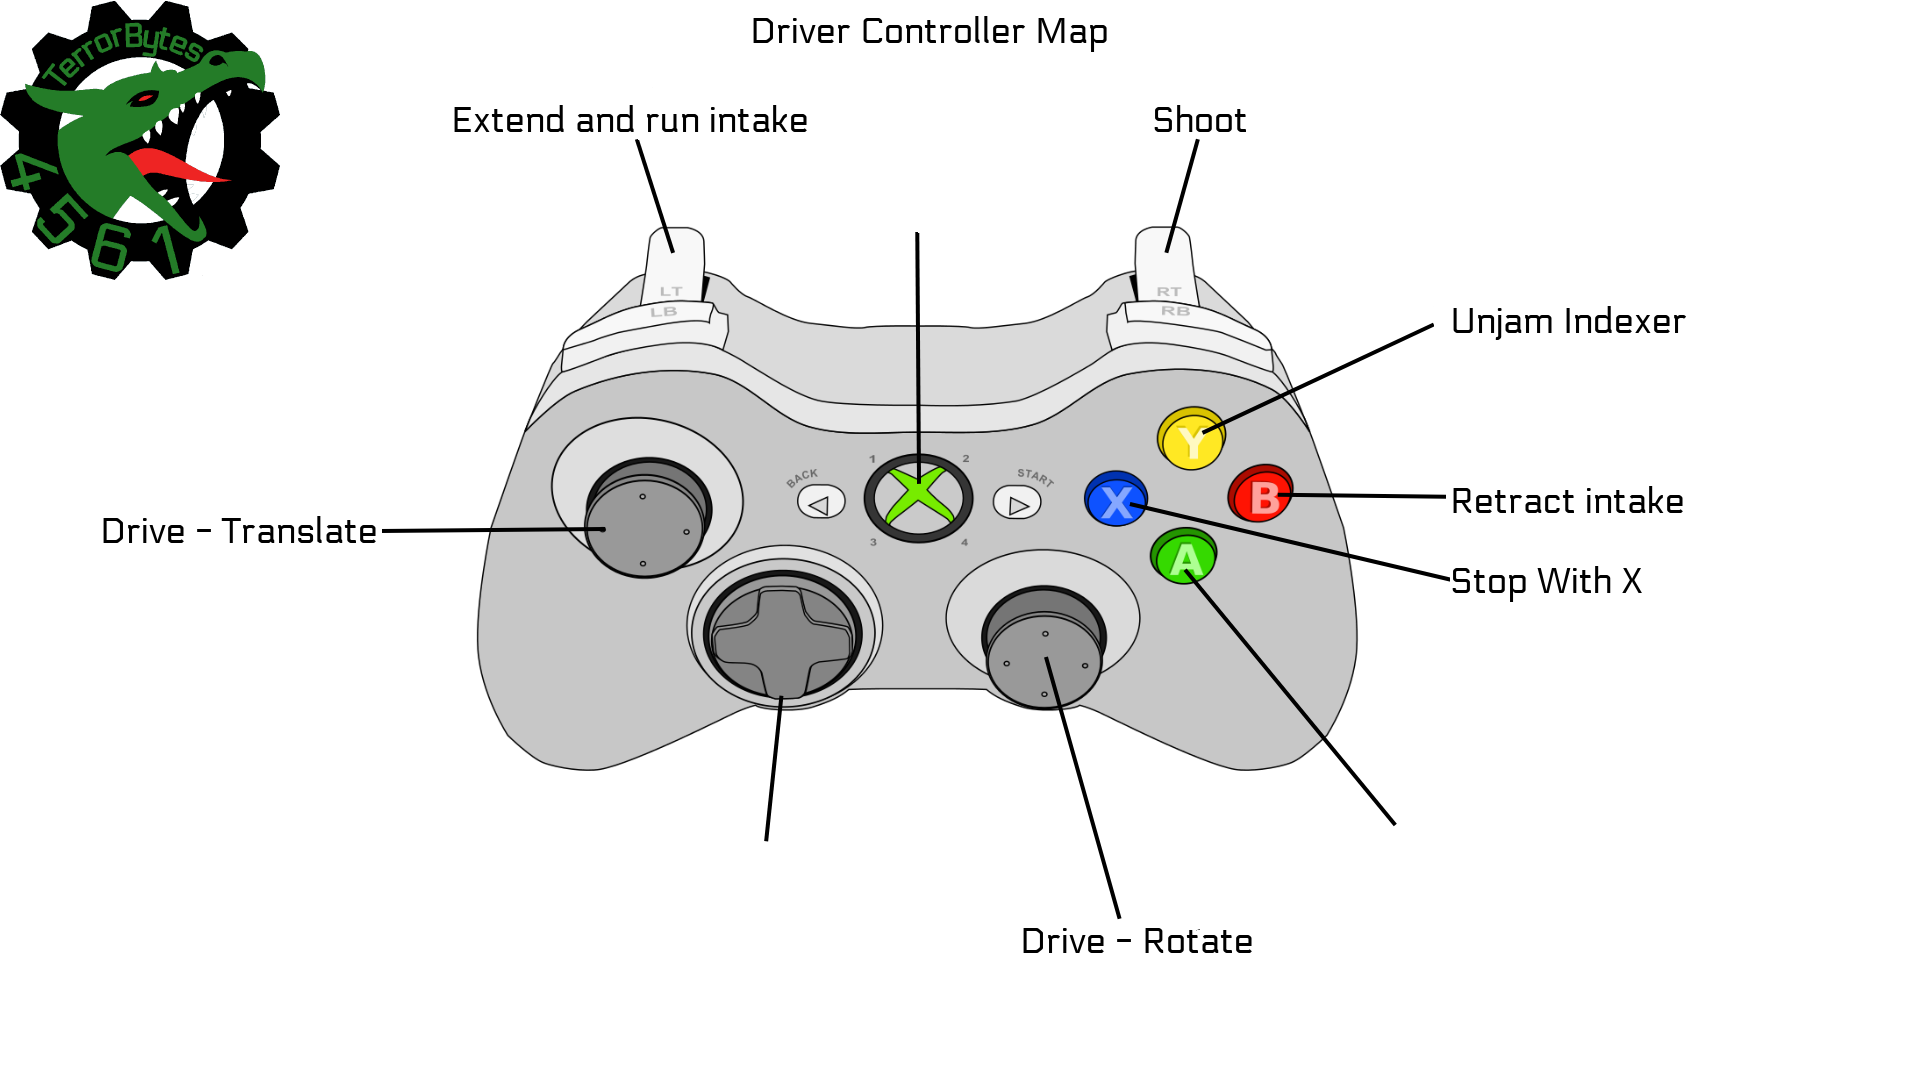
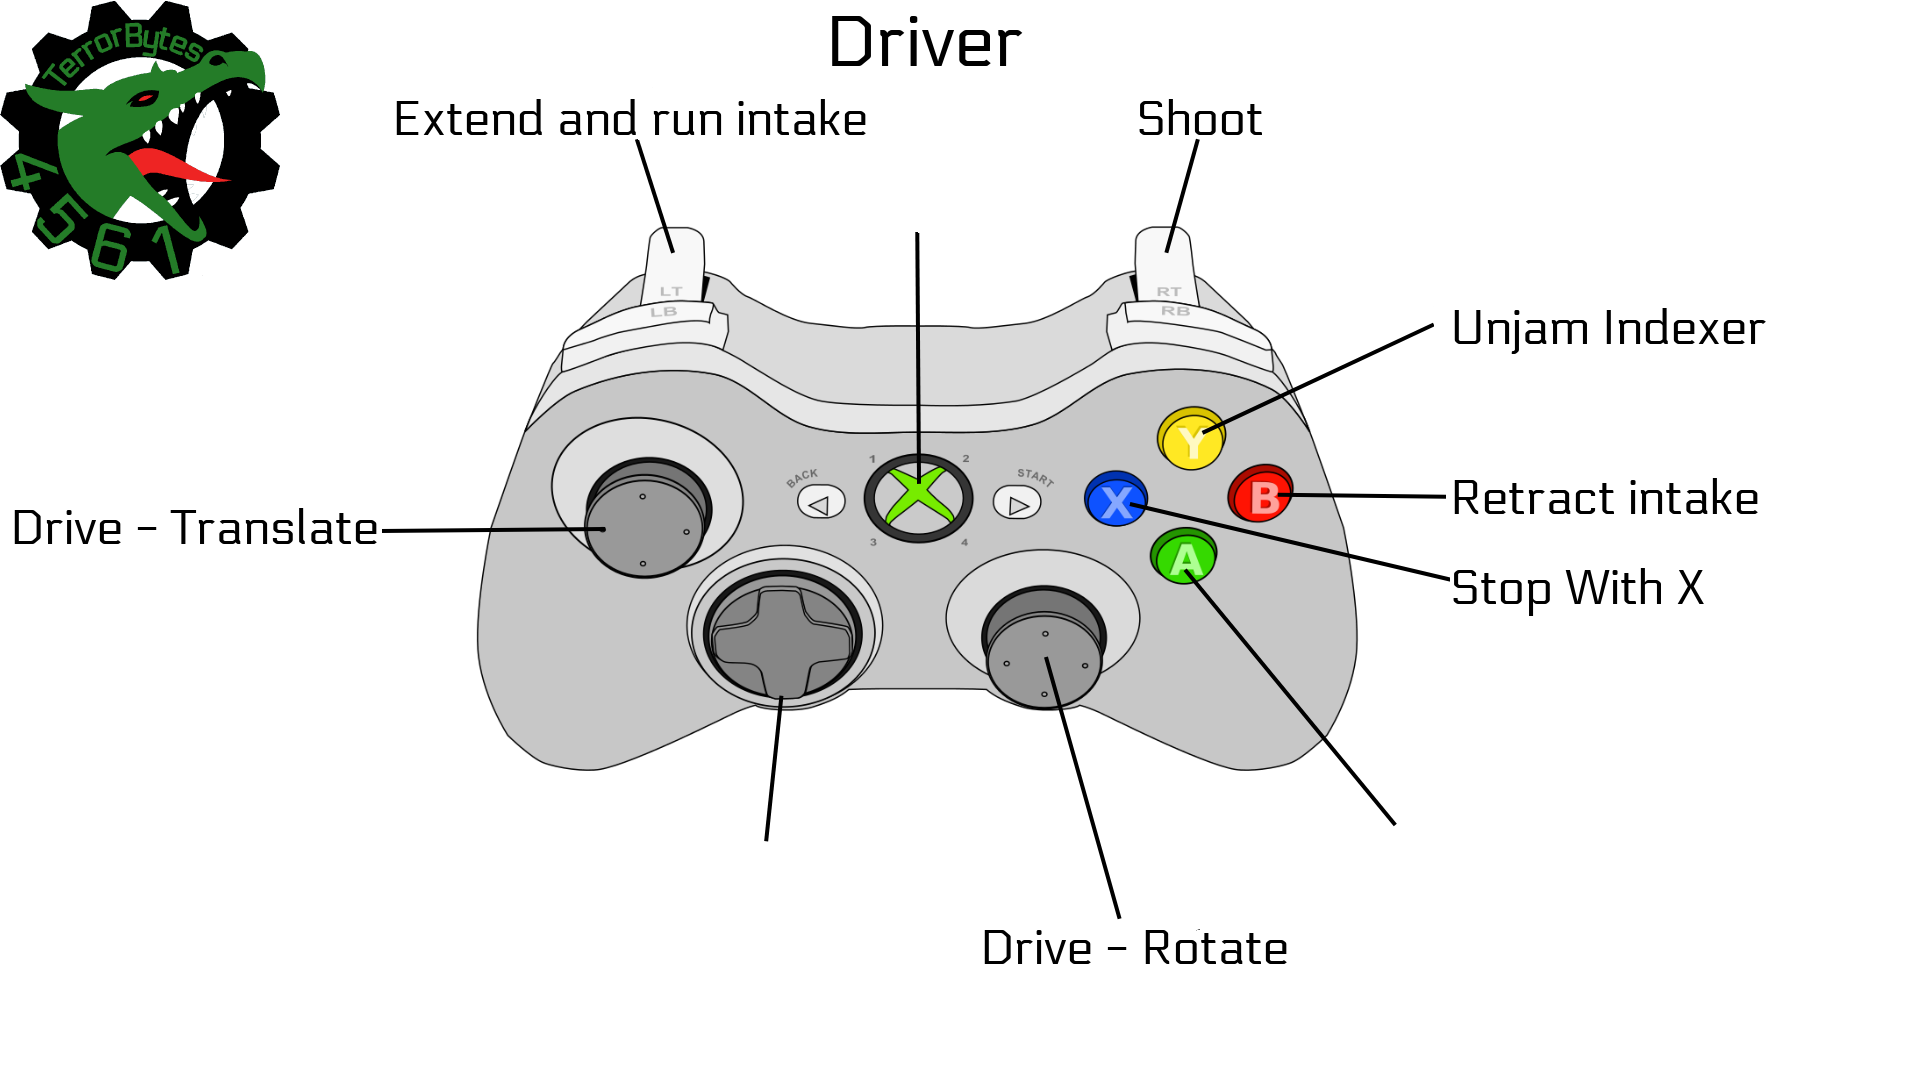
Made text larger, actually used bigger title font

diff --git a/controllerMapGenerator/controllerMapGenerator.py b/controllerMapGenerator/controllerMapGenerator.py
@@ -26,8 +26,8 @@ def getButtonMapping(controller, button):
 
 
 img = Image.open('controllerMapGenerator/XboxNavigation.png')
-font = ImageFont.truetype("controllerMapGenerator/Electrolize-Regular.ttf", size=36)
-titleFont = ImageFont.truetype("controllerMapGenerator/Electrolize-Regular.ttf", size=48)
+font = ImageFont.truetype("controllerMapGenerator/Electrolize-Regular.ttf", size=48)
+titleFont = ImageFont.truetype("controllerMapGenerator/Electrolize-Regular.ttf", size=72)
 # Call draw Method to add 2D graphics in an image
 I1 = ImageDraw.Draw(img)
 
@@ -35,12 +35,12 @@ I1 = ImageDraw.Draw(img)
 I1.text((630, 120), getButtonMapping('driverController','leftTrigger'), fill=(0, 0, 0), font=font, anchor="mm")
 I1.text((1200, 120), getButtonMapping('driverController','rightTrigger'), fill=(0, 0, 0), font=font, anchor="mm")
 I1.text((1450, 300), getButtonMapping('driverController','y'), fill=(0, 0, 0), font=font)
-I1.text((1450, 480), getButtonMapping('driverController','b'), fill=(0, 0, 0), font=font)
+I1.text((1450, 470), getButtonMapping('driverController','b'), fill=(0, 0, 0), font=font)
 I1.text((1450, 560), getButtonMapping('driverController','x'), fill=(0, 0, 0), font=font)
 #I1.text((1450, 820), getButtonMapping('driverController','a'), fill=(0, 0, 0), font=font)
-I1.text((100,510), "Drive - Translate", fill=(0, 0, 0), font=font, align="rm")
-I1.text((1020,920), "Drive - Rotate", fill=(0, 0, 0), font=font, align="mm")
-I1.text((750, 10), "Driver Controller Map", fill=(0, 0, 0), font=font, align="mm")
+I1.text((10,500), "Drive - Translate", fill=(0, 0, 0), font=font, align="rm")
+I1.text((980,920), "Drive - Rotate", fill=(0, 0, 0), font=font, align="mm")
+I1.text((825, 0), "Driver", fill=(0, 0, 0), font=titleFont, align="mm")
 
 
 # Display edited image
